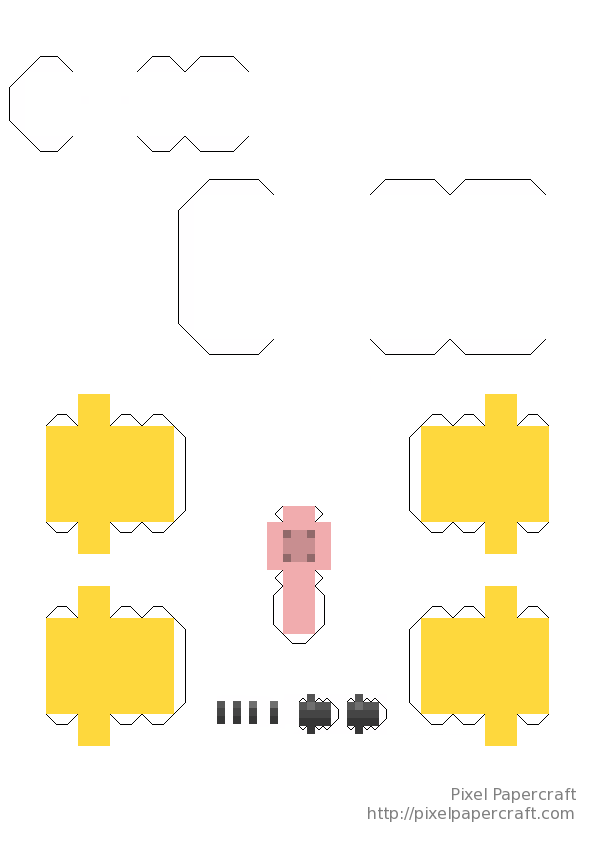
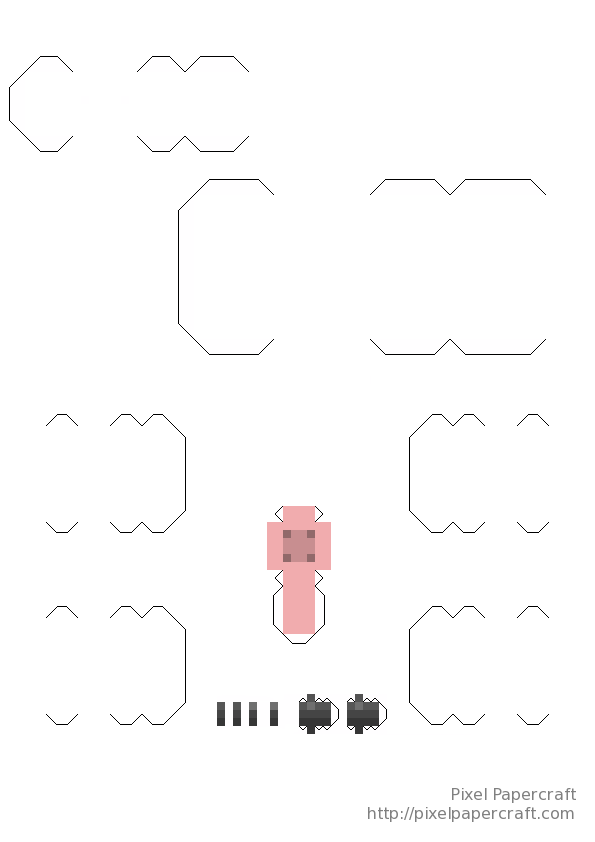
Added Folds nad Labels to Cow Character Generator, and Further Adjusted Some Parts

Changed region(s): [[0.6958, 0.4632, 0.9378, 0.8955], [0.0605, 0.4632, 0.3025, 0.8955]]

diff --git a/src/generators/minecraft-cow-character/MinecraftCowCharacterGenerator.bs.js b/src/generators/minecraft-cow-character/MinecraftCowCharacterGenerator.bs.js
@@ -20,10 +20,20 @@ var thumbnail = {
   url: require("./thumbnail/thumbnail.jpeg")
 };
 
-var images = [{
-    id: "Background",
-    url: requireImage("Background")
-  }];
+var imageIds = [
+  "Background",
+  "Folds",
+  "Labels"
+];
+
+function toImageDef(id) {
+  return {
+          id: id,
+          url: requireImage(id)
+        };
+}
+
+var images = imageIds.map(toImageDef);
 
 var textures = [{
     id: "Skin",
@@ -46,7 +56,11 @@ function script(param) {
         standardHeight: 64,
         choices: []
       });
+  Generator.defineBooleanInput("Show Folds", true);
+  Generator.defineBooleanInput("Show Labels", true);
   var alexModel = Generator.getSelectInputValue("Skin Model Type") === "Alex";
+  var showFolds = Generator.getBooleanInputValue("Show Folds");
+  var showLabels = Generator.getBooleanInputValue("Show Labels");
   var hideHelmet = Generator.getBooleanInputValue("Hide Helmet");
   var hideJacket = Generator.getBooleanInputValue("Hide Jacket");
   var hideLeftSleeve = Generator.getBooleanInputValue("Hide Left Sleeve");
@@ -698,12 +712,24 @@ function script(param) {
           w: 32,
           h: 32
         }, undefined, undefined, undefined);
-    return Generator.drawTextureLegacy("Skin", steve.overlay.leftLeg.bottom, {
-                x: 485,
-                y: 714,
-                w: 32,
-                h: 32
-              }, "Vertical", undefined, undefined);
+    Generator.drawTextureLegacy("Skin", steve.overlay.leftLeg.bottom, {
+          x: 485,
+          y: 714,
+          w: 32,
+          h: 32
+        }, "Vertical", undefined, undefined);
+  }
+  if (showFolds) {
+    Generator.drawImage("Folds", [
+          0,
+          0
+        ]);
+  }
+  if (showLabels) {
+    return Generator.drawImage("Labels", [
+                0,
+                0
+              ]);
   }
   
 }
@@ -726,6 +752,8 @@ exports.requireTexture = requireTexture;
 exports.id = id;
 exports.name = name;
 exports.thumbnail = thumbnail;
+exports.imageIds = imageIds;
+exports.toImageDef = toImageDef;
 exports.images = images;
 exports.textures = textures;
 exports.steve = steve;
